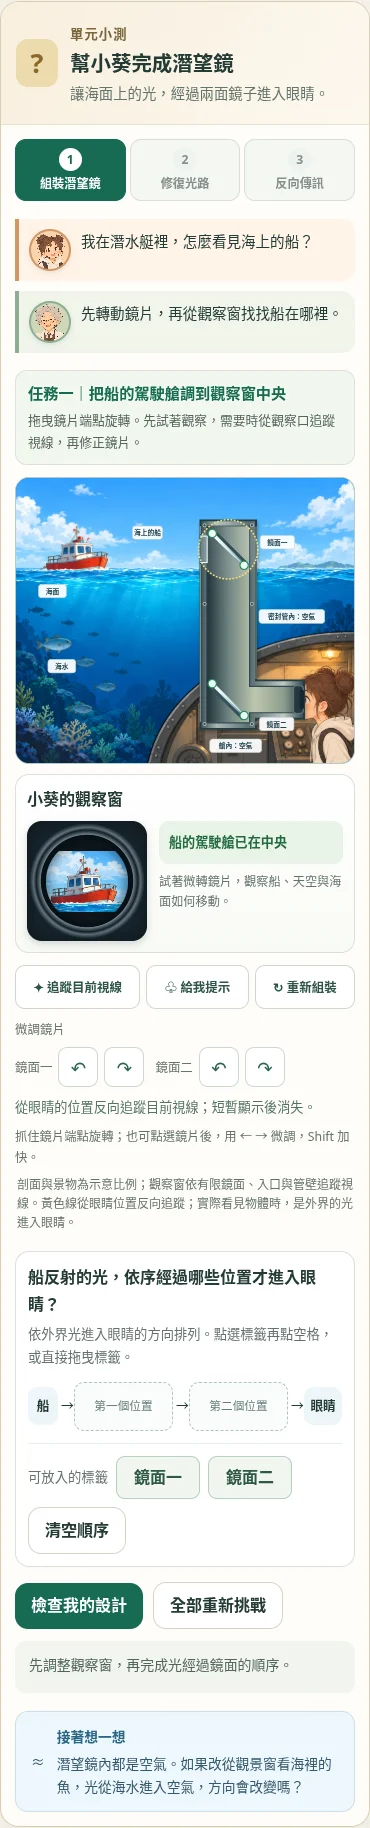
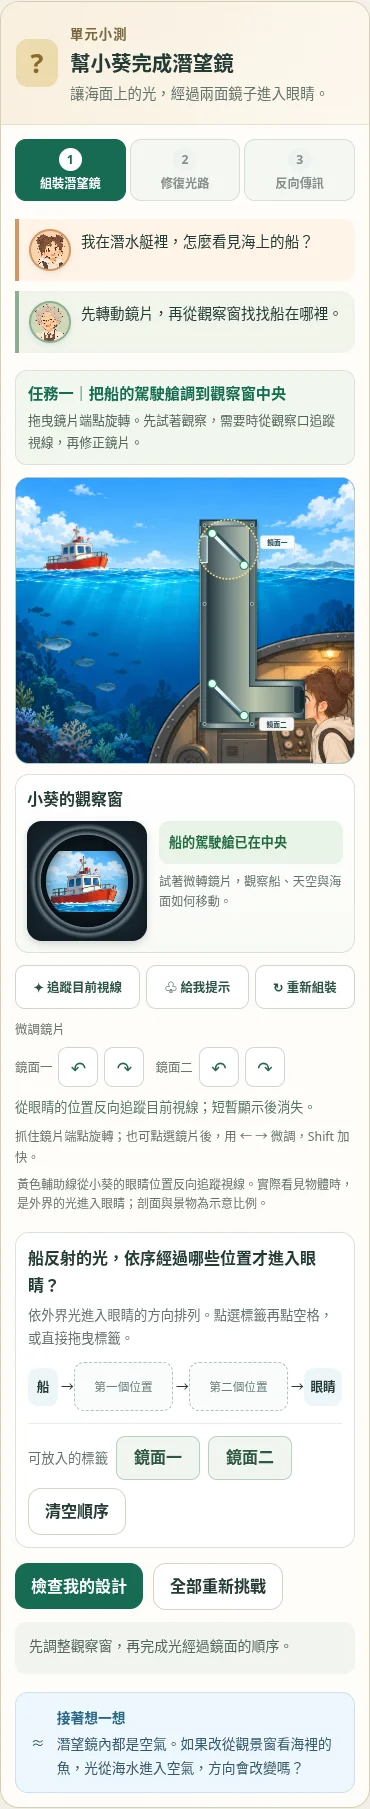
Keep only the two mirror labels in the periscope scene

diff --git a/units/1/parts/1.2/index.html b/units/1/parts/1.2/index.html
@@ -405,8 +405,8 @@
               <div class="periscope-task"><div><strong id="periscope-task-title">任務一｜把船的駕駛艙調到觀察窗中央</strong><p id="periscope-task-copy">拖曳鏡片端點旋轉。先試著觀察，需要時從觀察口追蹤視線，再修正鏡片。</p></div></div>
               <div class="periscope-workspace">
                 <div class="periscope-cutaway">
-                  <svg id="periscope-scene" viewBox="0 0 900 760" role="group" aria-labelledby="periscope-scene-title periscope-scene-desc">
-                    <title id="periscope-scene-title">潛望鏡剖面與可旋轉平面鏡</title><desc id="periscope-scene-desc">上方入口在海面之上，密封管內與潛水艇艙內都是空氣。拖曳鏡面一或鏡面二的端點旋轉，觀察右側景象。鏡片也可用方向鍵微調。</desc>
+                  <svg id="periscope-scene" viewBox="0 0 900 760" role="group" aria-label="潛望鏡剖面與可旋轉平面鏡" aria-describedby="periscope-scene-desc">
+                    <desc id="periscope-scene-desc">上方入口在海面之上，密封管內與潛水艇艙內都是空氣。拖曳鏡面一或鏡面二的端點旋轉，觀察右側景象。鏡片也可用方向鍵微調。</desc>
                     <defs>
                       <linearGradient id="scope-steel" x1="0" x2="1"><stop stop-color="#374a50"/><stop offset=".16" stop-color="#a8b7b5"/><stop offset=".48" stop-color="#596d70"/><stop offset=".8" stop-color="#c0cac4"/><stop offset="1" stop-color="#30454c"/></linearGradient>
                       <linearGradient id="scope-air" x1="0" x2="1"><stop stop-color="#1f333b"/><stop offset=".24" stop-color="#738783"/><stop offset=".5" stop-color="#bdc6ad"/><stop offset=".8" stop-color="#8b9c8d"/><stop offset="1" stop-color="#263c41"/></linearGradient>
@@ -426,8 +426,8 @@
                     <g id="periscope-recorded" class="periscope-path"></g><g id="periscope-light" class="periscope-path"></g><g id="periscope-normal"></g>
                     <g id="periscope-mirror-0" class="mirror-drag" role="slider" tabindex="0" aria-label="鏡面一，拖曳端點旋轉，或使用方向鍵" aria-valuemin="30" aria-valuemax="65" aria-valuenow="38" aria-orientation="horizontal"><circle class="scope-mirror-focus" cx="565" cy="190" r="79"/><line class="scope-mirror-hit"/><line class="mirror-back" stroke="#354f58" stroke-width="15" stroke-linecap="round"/><line class="mirror-glass" stroke="url(#scope-mirror)" stroke-width="9" stroke-linecap="round"/><line class="mirror-highlight" stroke="#f0ffff" stroke-width="2"/><circle class="scope-mirror-handle" r="11"/><circle class="scope-mirror-handle" r="11"/></g>
                     <g id="periscope-mirror-1" class="mirror-drag" role="slider" tabindex="0" aria-label="鏡面二，拖曳端點旋轉，或使用方向鍵" aria-valuemin="30" aria-valuemax="65" aria-valuenow="51" aria-orientation="horizontal"><circle class="scope-mirror-focus" cx="565" cy="590" r="79"/><line class="scope-mirror-hit"/><line class="mirror-back" stroke="#354f58" stroke-width="15" stroke-linecap="round"/><line class="mirror-glass" stroke="url(#scope-mirror)" stroke-width="9" stroke-linecap="round"/><line class="mirror-highlight" stroke="#f0ffff" stroke-width="2"/><circle class="scope-mirror-handle" r="11"/><circle class="scope-mirror-handle" r="11"/></g>
-                    <g class="scene-label"><rect x="310" y="128" width="80" height="35" rx="8"/><text x="350" y="152" text-anchor="middle">海上的船</text><rect x="650" y="153" width="92" height="36" rx="8"/><text x="696" y="178" text-anchor="middle">鏡面一</text><rect x="648" y="637" width="92" height="36" rx="8"/><text x="694" y="662" text-anchor="middle">鏡面二</text><rect x="647" y="350" width="175" height="37" rx="8"/><text x="734" y="375" text-anchor="middle">密封管內：空氣</text><rect x="60" y="283" width="74" height="36" rx="8"/><text x="97" y="308" text-anchor="middle">海面</text><rect x="85" y="483" width="74" height="36" rx="8"/><text x="122" y="508" text-anchor="middle">海水</text><rect x="516" y="695" width="138" height="36" rx="8"/><text x="585" y="720" text-anchor="middle">艙內：空氣</text></g>
-                    <g id="periscope-signal-source" hidden pointer-events="none"><path d="M724 550L770 577" fill="none" stroke="#e8f5ff" stroke-width="2"/><rect x="662" y="513" width="124" height="37" rx="8" fill="#edf7ff" stroke="#9fc9e8"/><text x="724" y="538" text-anchor="middle">訊號光源</text><rect x="755" y="578" width="38" height="24" rx="6" fill="#254b69" stroke="#b3d8f2" stroke-width="2"/><path d="M780 581V599M786 581V599" stroke="#739dbb" stroke-width="2"/><circle cx="755" cy="590" r="6" fill="#89cfff" stroke="#e6f7ff" stroke-width="2"/></g>
+                    <g class="scene-label"><rect x="650" y="153" width="92" height="36" rx="8"/><text x="696" y="178" text-anchor="middle">鏡面一</text><rect x="648" y="637" width="92" height="36" rx="8"/><text x="694" y="662" text-anchor="middle">鏡面二</text></g>
+                    <g id="periscope-signal-source" hidden pointer-events="none" role="img" aria-label="訊號光源位於原眼睛位置"><rect x="755" y="578" width="38" height="24" rx="6" fill="#254b69" stroke="#b3d8f2" stroke-width="2"/><path d="M780 581V599M786 581V599" stroke="#739dbb" stroke-width="2"/><circle cx="755" cy="590" r="6" fill="#89cfff" stroke="#e6f7ff" stroke-width="2"/></g>
                   </svg>
                 </div>
                 <aside class="periscope-view" aria-label="從潛望鏡看到的景象"><h3>小葵的觀察窗</h3><div class="periscope-lens-frame"><canvas id="periscope-view" width="240" height="240" role="img" aria-label="觀察窗載入中"></canvas></div><div id="periscope-view-state" class="periscope-view-state" role="status">正在準備觀察窗…</div><p id="periscope-view-copy">景象隨鏡片轉動；管壁擋住的區域會變暗。</p><div class="periscope-view-meter">轉錯時，可能看見天空、海面，或被管壁遮住。</div></aside>

diff --git a/docs/reviews/unit-1.2-periscope/review.md b/docs/reviews/unit-1.2-periscope/review.md
@@ -97,3 +97,11 @@
 截圖 `eye-origin-blocked.webp`、`eye-origin-boat.webp`、`eye-origin-sea.webp`、`eye-origin-sky.webp` 皆在啟動後 150ms 凍結瀏覽器時鐘擷取，供人工核對同一觀察口起點；實際互動與消失仍用實際計時驗證。檢查紀錄保存於 `eye-origin-tests.log`。
 
 本輪共 **46 項通過、0 失敗**（含外層項目）：潛望鏡 23 項、第三至六區回歸 23 項。四張實際截圖人工核對：所有路線都接到同一觀察口，預設錯誤角度僅到下方鏡片後撞壁；對準、海面與天空三種情況皆由同一眼位起始，沒有固定船端起點或跳接。照片中小葵造型維持雙丸子頭及白色帽兜。
+
+## 精簡剖面圖文字（2026-10-28）
+
+依使用者要求，移除船、海面、海水、密封管內空氣與艙內空氣五個標籤及其底框，圖內僅保留「鏡面一」「鏡面二」。第三關訊號光源的文字框與引線也移除，保留光源器材圖示及可存取名稱。移除會產生原生滑鼠提示的 SVG `<title>`，改以 `aria-label` 命名、`aria-describedby` 保留操作與情境描述，避免遮住畫面。光路、拖曳、觀察窗及三關流程維持。
+
+本輪檢查增加所有 SVG 可見文字只含兩個鏡面名稱、無 `<title>`、可存取名稱與描述保留的斷言；實際桌面、手機與第三關畫面另行檢視。紀錄見 `labels-tests.log`。
+
+本輪潛望鏡檢查 **23 項通過、0 失敗**（含外層項目），桌面、手機及第三關實際截圖已更新並人工檢視；圖中所有文字節點均只有兩個鏡面名稱，光源圖示、眼位追蹤及三階段操作正常。

diff --git a/units/1/parts/1.2/storyline.md b/units/1/parts/1.2/storyline.md
@@ -129,3 +129,7 @@
 使用者明確要求提示一律從小葵眼睛位置發射，依當時鏡片角度前進，不保證能到船。移除原本固定從船發出的示例光線，改為使用觀察窗中央視線的同一起點與方向：觀察口→下方鏡面二→上方鏡面一→外界；碰到管壁或鏡背就停止。管外保持出管方向，延伸至插畫船體、海面或畫面邊界，沒有自動連到船的步驟。
 
 按鈕改為「追蹤目前視線」，文字註明這是由眼睛位置反向追蹤的輔助線；實際看見物體仍由外界光進入眼睛。順序題明示依實際入眼方向作答，第三關的原入眼紀錄與反向訊號各自標明。約一秒短暫亮起、調整即清除、無箭頭或圈叉的呈現維持。
+
+### 剖面圖精簡文字（2026-10-28）
+
+依使用者要求移除船、海面、海水及空氣標籤，剖面中只留下鏡面一、鏡面二。取消遮住畫面的原生 SVG 標題提示，情境描述保留給輔助閱讀；第三關光源只保留器材圖示，說明仍在圖外任務文字中。
